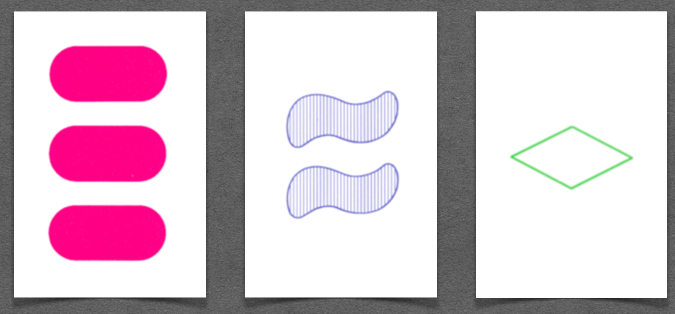
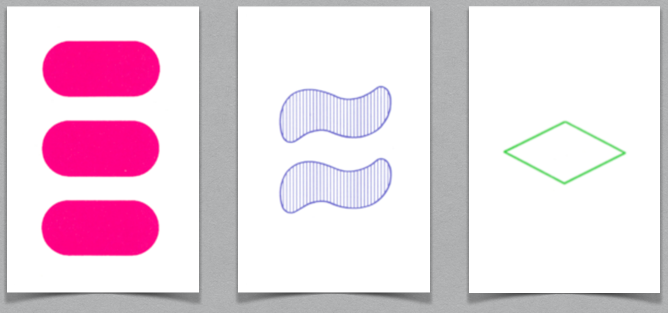
adjusted colors

diff --git a/public/css/main.css b/public/css/main.css
@@ -1,8 +1,7 @@
 body {
 	background-image: url('../background-1.jpg');
 	background-color: #DACE9C !important;
-	color: #64D96D !important;
-	/*font-family: "Times New Roman", Times, serif !important;*/
+/*	color: #64D96D !important;*/
 	font-family: "Lucida Console", Monaco, monospace !important;
 }
 
@@ -13,7 +12,7 @@ body {
 h1 {
 	font-size: 50px !important;
 	font-weight: bold !important;
-	color: #FE0082 !important;
+/*	color: #FE0082 !important;*/
 	margin-top: 50px !important;
 }
 
@@ -24,15 +23,11 @@ h4 {
 }
 
 a {
-	color: #64D96D !important;
+	/*color: #9ae59a !important;*/
 }
 
-/*.btn {
-	color: black !important;
-}*/
-
 .btn {
-	background-color: #807ED3 !important;
+	background-color: #6E3B99 !important;
 	font-size: 15px !important;
 	color: white !important;
 	margin: 0px 10px;
@@ -52,18 +47,28 @@ img {
 }
 
 .selected-card {
-	background-color: #DDDDDD !important;
+	background-color: #EEEEEE !important;
 }
+
+/*a:hover {
+	text-decoration: none !important;
+}*/
 
 .navbar a {
 	display: inline;
 	padding: 10px;
+	/*font-size: 18px;*/
+	color: #444444 !important;
 	font-weight: bold;
-	font-size: 18px;
-	color: #FE0082 !important;
+	font-family: "Verdana", Sans-Serif;
 }
+
 
 .margin {
 	margin: 30px;
+}
+
+.margin-top {
+	margin-top: 50px;
 }
 	

diff --git a/browser/views/classicset.html b/browser/views/classicset.html
@@ -8,9 +8,9 @@
 			</div>
 		</nav>
 
-		<div class="row">
-			<h4 class="pull-left">Match Count: {{count()}}</h4>
-			<h4 class="pull-right">Remaining in Deck: {{remainingInSet()}}</h4>
+		<div class="row margin-top">
+			<h4 class="pull-left">Match Count: <strong> {{count()}} </strong></h4>
+			<h4 class="pull-right">Remaining in Deck: <strong>{{remainingInSet()}}</strong></h4>
 		</div>
 
 		<div class="row">

diff --git a/Set-Font/style.css b/Set-Font/style.css
@@ -102,11 +102,18 @@ body{
     content: "\e605\e605\e605"
 }
 .icon-set-purple {
-    color: #807ED3
+    /*color: #807ED3*/
+    /*color: #ac2cd7;*/
+    color: #6E3B99;
 }
 .icon-set-red {
-    color: #FE0082
+    /*color: #ff80b3*/
+    /*color: #f00;*/
+    color: #F43746;
+   
 }
 .icon-set-green {
-    color: #64D96D
+    /*color: #9ae59a*/
+    /*color: #409743;*/
+    color: #00B264;
 }

diff --git a/browser/views/home.html b/browser/views/home.html
@@ -3,5 +3,5 @@
 	<!-- <h1>GROUP</h1> -->
 	<!-- <img src="http://deniseyu.github.io/images/set-02.png"> -->
 	<img src="/public/img-1.png">
-	<h3 > <a class="btn" ui-sref="classic">PLAY NOW </a></h3>
+	<h3 > <a class="btn" ui-sref="classic">Play Now </a></h3>
 </div>
